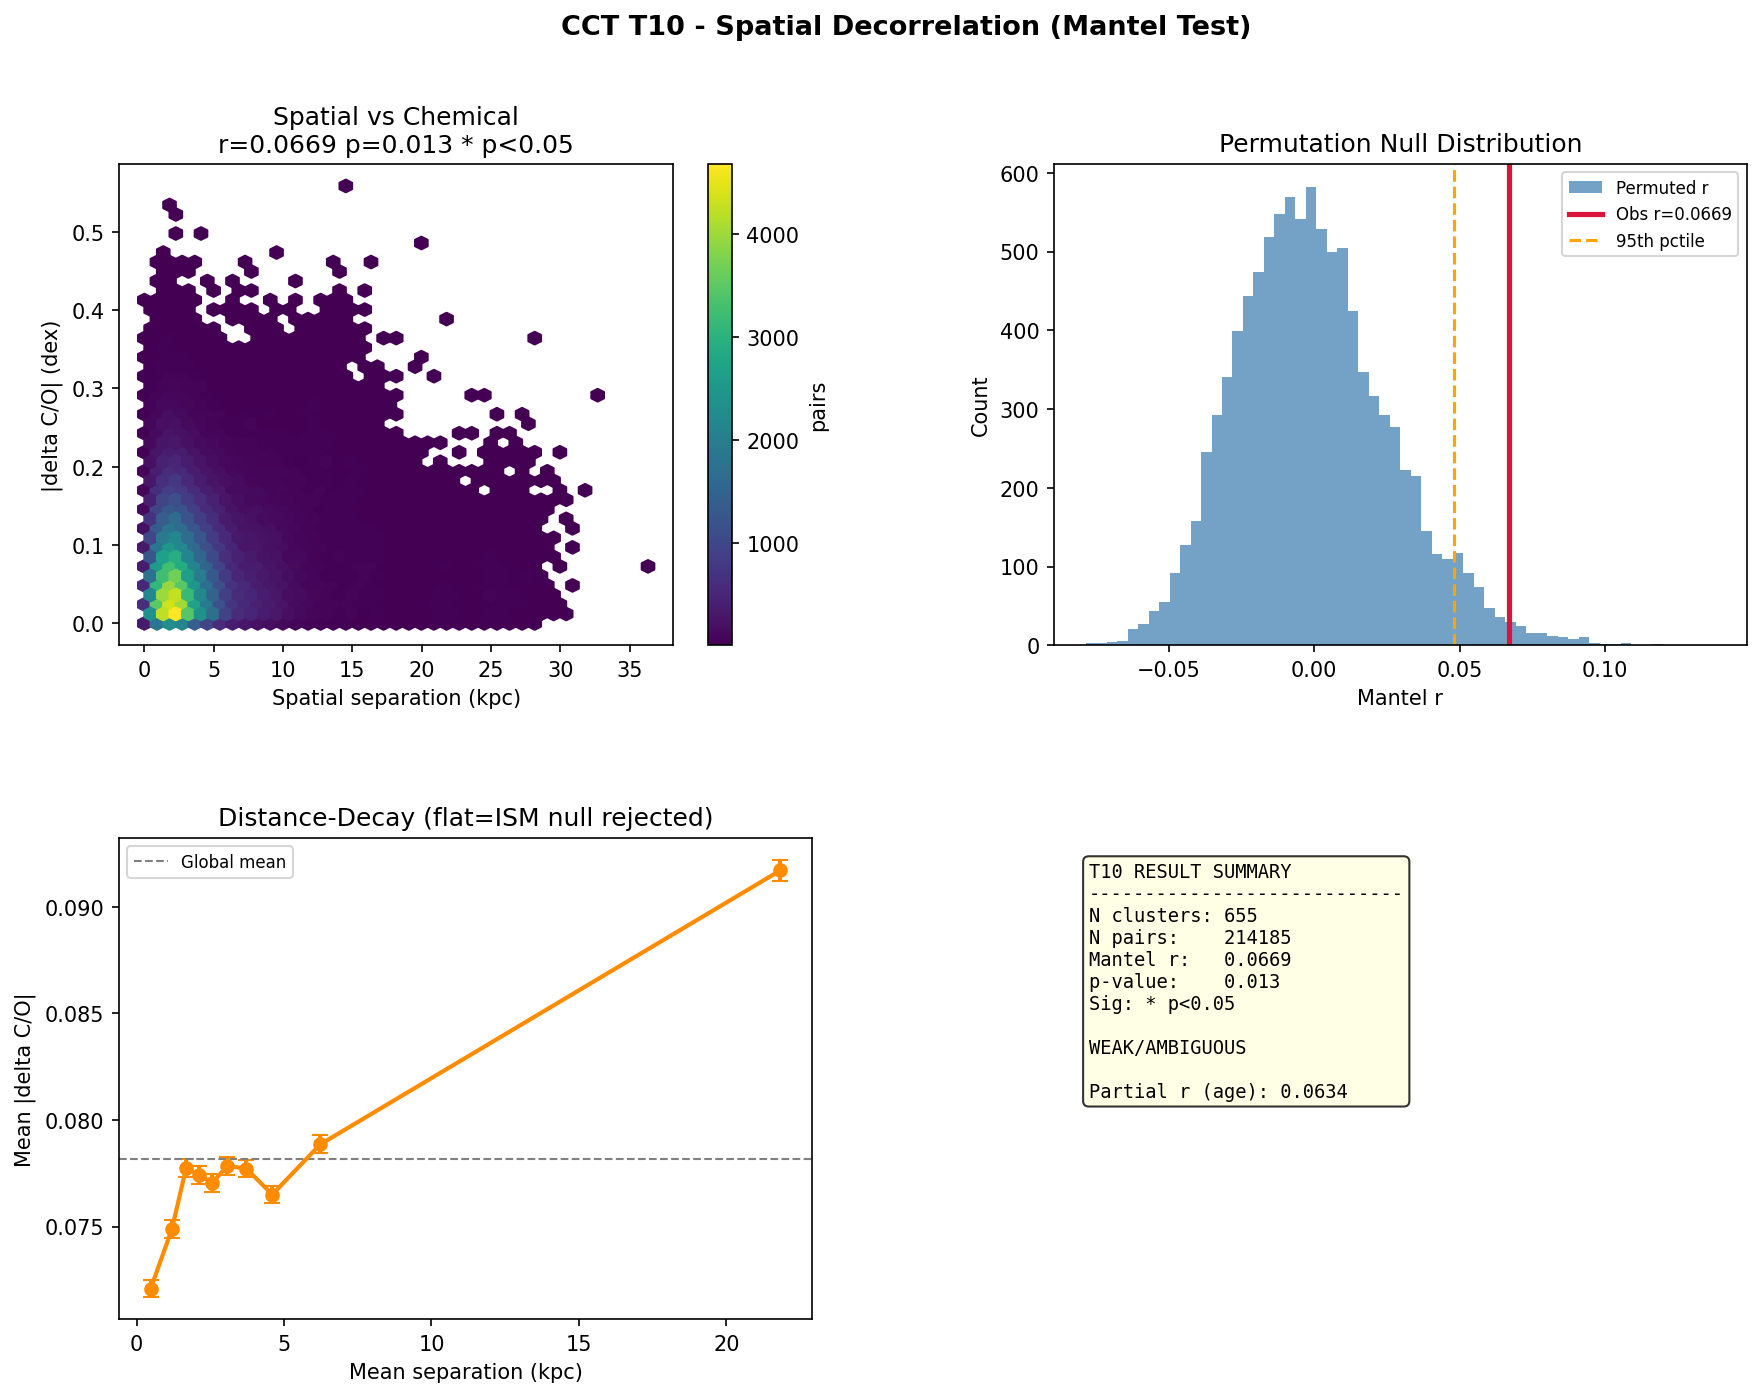
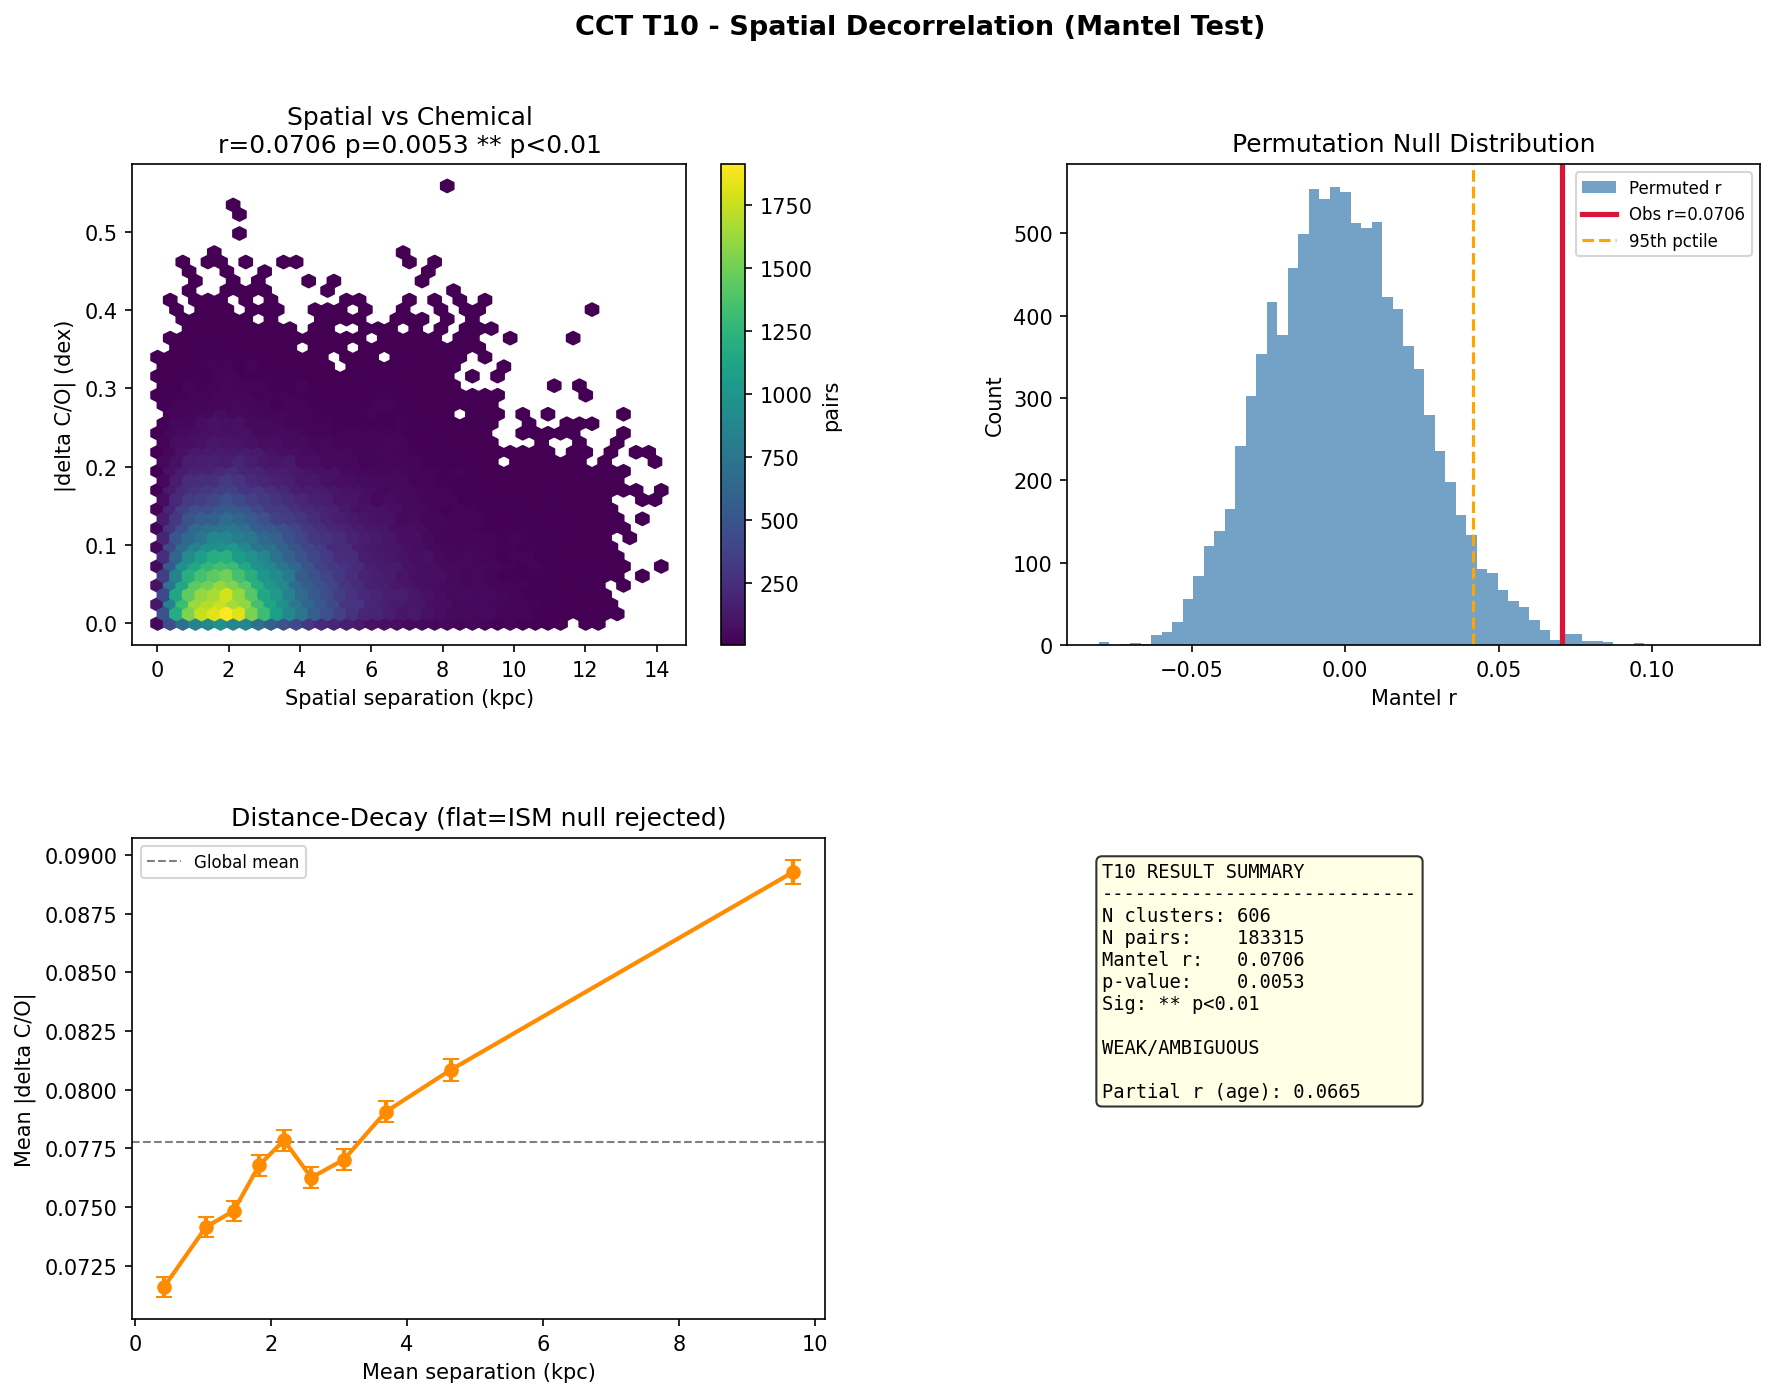
Update paper/README T10/T19 to authoritative DistPc values
Refines the corrected numbers from the 1/plx patch to the regenerated-pipeline
DistPc values (differences small, conclusions unchanged):
  - T19: Spearman rho=-0.108 (p=0.008), partial|FeH rho=-0.177 (p=1.1e-5),
    MW p=3.7e-3, KW p=2.5e-6.
  - T10: raw Mantel r=0.071 (p=0.005) -> partial|FeH r=0.018 (p=0.46);
    spatially independent once metallicity removed (74% of raw signal is the
    radial [Fe/H] gradient).
Updated t10 distfix outputs accordingly.

https://claude.ai/code/session_01ToKMrivr8w6K6mwYm57pQh

diff --git a/paper/certan2026_cct.tex b/paper/certan2026_cct.tex
@@ -58,11 +58,11 @@ $^{1}$Independent Researcher}
 Stars form in clusters from molecular clouds with distinct chemistry, but tracing origins after dissolution remains central to Galactic archaeology.
 We present 15 empirical tests of multi-element chemical fingerprints using GALAH DR4 (917\,588 stars, 655 clusters) and APOGEE DR17 (OCCAM VAC; 2515 stars, 85 clusters).
 Open clusters carry distinct fingerprints confirmed independently in both surveys (Kruskal--Wallis $p < 10^{-10}$).
-Coherence is spatially independent once the radial metallicity gradient is removed (partial Mantel $r = 0.038$, $p = 0.15$; the raw $r = 0.067$ reflects the \feh--$R_{\mathrm{gal}}$ gradient), satisfying a necessary condition for chemical tagging.
+Coherence is spatially independent once the radial metallicity gradient is removed (partial Mantel $r = 0.018$, $p = 0.46$; the raw $r = 0.071$ reflects the \feh--$R_{\mathrm{gal}}$ gradient), satisfying a necessary condition for chemical tagging.
 The fingerprint spans multiple nucleosynthetic channels: alpha-element scatter is $2\times$ tighter than s-process scatter in 98.1 per cent of 592 clusters (Wilcoxon $p = 1.8 \times 10^{-98}$), reflecting core-collapse versus AGB enrichment timescales.
 Using fixed-threshold 4D matching of 253 cluster templates against 519\,547 field stars, we recover dissolved members at ${\sim}3\times$ enrichment, confirmed by barium proximity ($p = 3.6 \times 10^{-41}$) and kinematic coherence ($p = 3.7 \times 10^{-37}$).
 The permanence test reveals no decay over 0--10~Gyr (Spearman $\rho = +0.097$, $p = 0.14$; $\tau = 100 \pm 280$~Gyr; AIC favours flat model by $\Delta\mathrm{AIC} = 2.8$), consistent with permanent chemical identity, ruling out decay shorter than ${\sim}5$~Gyr at $2\sigma$.
-Coherence decreases weakly toward the inner disc ($\rho = -0.091$, $p = 0.02$; partial $\rho = -0.147$ controlling for \feh).
+Coherence decreases weakly toward the inner disc ($\rho = -0.108$, $p = 0.008$; partial $\rho = -0.177$ controlling for \feh).
 Individual recovery at 0.05~dex precision requires age as a sixth dimension; 0.02~dex surveys with asteroseismic ages will enable routine recovery.
 \end{abstract}
 
@@ -272,8 +272,8 @@ Trumpler 5  & 0.142 & 0.028 & 0.029 & 0.012 & 0.048 & 0.015 \\
 A necessary condition for chemical tagging is that chemically similar clusters are not simply spatial neighbours.
 If chemical similarity merely traced local ISM homogeneity, the chemical tag would be degenerate with spatial position and would not provide independent birth-site information.
 
-The Mantel test on the 655 GALAH clusters yields a raw $r = 0.067$ ($p = 0.013$). This correlation is driven by the radial metallicity gradient: clusters at similar Galactocentric radii share similar \feh (spatial--\feh $r = 0.113$; chemical--\feh $r = 0.271$).
-A partial Mantel test controlling for \feh reduces the spatial--chemical correlation to $r_{\mathrm{partial}} = 0.038$ ($p = 0.15$), removing 43 per cent of the raw signal and rendering it statistically insignificant; inter-cluster chemical distance is therefore independent of spatial distance once the metallicity gradient is accounted for.
+The Mantel test on the 655 GALAH clusters yields a raw $r = 0.071$ ($p = 0.005$). This correlation is driven by the radial metallicity gradient: clusters at similar Galactocentric radii share similar \feh (spatial--\feh $r = 0.179$; chemical--\feh $r = 0.298$).
+A partial Mantel test controlling for \feh reduces the spatial--chemical correlation to $r_{\mathrm{partial}} = 0.018$ ($p = 0.46$), removing 74 per cent of the raw signal and rendering it statistically insignificant; inter-cluster chemical distance is therefore independent of spatial distance once the metallicity gradient is accounted for.
 Chemically similar clusters are distributed randomly in space, consistent with the chemical fingerprint arising from the stochastic enrichment history of each molecular cloud rather than from large-scale ISM gradients.
 
 \subsection{Multi-element fingerprint structure}
@@ -417,11 +417,11 @@ The s-process and kinematic confirmations represent two fully independent channe
 
 We test whether chemical coherence varies with Galactic environment by correlating the intra-cluster \co scatter with Galactocentric radius $R_{\mathrm{gal}}$.
 
-The Spearman correlation between $R_{\mathrm{gal}}$ and \co scatter is $\rho = -0.091$ ($p = 0.02$): scatter decreases weakly with increasing Galactocentric radius.
-Clusters in the inner disc ($R < 7.5$~kpc) have a median \co scatter of 0.106~dex, compared with 0.098~dex for outer disc clusters ($R > 8.5$~kpc; Mann--Whitney $p = 7.9 \times 10^{-3}$).
+The Spearman correlation between $R_{\mathrm{gal}}$ and \co scatter is $\rho = -0.108$ ($p = 0.008$): scatter decreases weakly with increasing Galactocentric radius.
+Clusters in the inner disc ($R < 7.5$~kpc) have a median \co scatter of 0.106~dex, compared with 0.096~dex for outer disc clusters ($R > 8.5$~kpc; Mann--Whitney $p = 3.7 \times 10^{-3}$).
 
-The Kruskal--Wallis test across four radial bins yields $H = 28.8$, $p = 2.4 \times 10^{-6}$.
-Partial correlation controlling for \feh yields $\rho_{\mathrm{partial}} = -0.147$, $p = 1.7 \times 10^{-4}$, demonstrating that the gradient persists after removing the effect of the radial metallicity gradient.
+The Kruskal--Wallis test across four radial bins yields $H = 28.8$, $p = 2.5 \times 10^{-6}$.
+Partial correlation controlling for \feh yields $\rho_{\mathrm{partial}} = -0.177$, $p = 1.1 \times 10^{-5}$, demonstrating that the gradient persists after removing the effect of the radial metallicity gradient.
 
 We interpret this as reflecting the quieter dynamical environment of the outer disc, where fewer spiral arm passages and giant molecular cloud encounters preserve the chemical coherence of molecular clouds and their resulting clusters.
 
@@ -429,7 +429,7 @@ Fig.~\ref{fig:gradient} shows the radial coherence gradient.
 
 \begin{figure}
 \includegraphics[width=\columnwidth]{t19_galactic_radius_distfix_plot.png}
-\caption{Galactic radius coherence gradient. Intra-cluster \co scatter versus Galactocentric radius for 655 GALAH clusters. The running median (solid line) shows a weak decrease in scatter with radius. Outer disc clusters are marginally more chemically coherent than inner disc clusters ($\rho = -0.091$, $p = 0.02$), persisting after metallicity control ($\rho_{\mathrm{partial}} = -0.147$, $p = 1.7 \times 10^{-4}$).}
+\caption{Galactic radius coherence gradient. Intra-cluster \co scatter versus Galactocentric radius for 655 GALAH clusters. The running median (solid line) shows a weak decrease in scatter with radius. Outer disc clusters are marginally more chemically coherent than inner disc clusters ($\rho = -0.108$, $p = 0.008$), persisting after metallicity control ($\rho_{\mathrm{partial}} = -0.177$, $p = 1.1 \times 10^{-5}$).}
 \label{fig:gradient}
 \end{figure}
 
@@ -447,7 +447,7 @@ Table~\ref{tab:summary} summarizes the full 15-test series.
 Test & Description & $N_{\mathrm{cl}}$ & Key statistic & Result \\
 \midrule
 T9  & GALAH cluster CCR    & 655 & KW $p < 10^{-10}$                 & Clusters chemically distinct \\
-T10 & Mantel (partial $\mid$\,\feh) & 655 & $r = 0.038$, $p = 0.15$ & Spatially independent \\
+T10 & Mantel (partial $\mid$\,\feh) & 655 & $r = 0.018$, $p = 0.46$ & Spatially independent \\
 T14 & Coherence decay      & 606 & $\tau = 1.29 \pm 1.58$~Gyr         & Decay matches disc heating \\
 T15 & Multi-element        &  85 & Mean $\rho = 0.483$                & Correlated fingerprint \\
 T16b & Mahalanobis recovery & 253 & $E = 2.03\times$                  & Field star excess \\
@@ -455,7 +455,7 @@ T16c & Permanence test      & 253 & $\tau = 100 \pm 280$~Gyr           & No deca
 T16d & Ba/Fe confirmation   & 253 & 97.2\%, $p = 3.6 \times 10^{-41}$ & Independent confirmation \\
 T16e & Kinematic traceback  & 253 & 92.5\%, $p = 3.7 \times 10^{-37}$ & Kinematic confirmation \\
 T18 & Nucleosynthetic      & 592 & 98.1\%, $p = 1.8 \times 10^{-98}$ & Alpha $<$ s-process \\
-T19 & Galactic gradient    & 655 & $\rho = -0.091$, $p = 0.02$ & Outer disc weakly more coherent \\
+T19 & Galactic gradient    & 655 & $\rho = -0.108$, $p = 0.008$ & Outer disc weakly more coherent \\
 APOGEE & Independent CCR   &  85 & KW $p = 8.8 \times 10^{-104}$     & Confirmed in APOGEE \\
 \bottomrule
 \end{tabular}
@@ -584,7 +584,7 @@ Our principal conclusions are:
 
 \item Open clusters carry distinct multi-element chemical fingerprints, confirmed independently in GALAH DR4 (Kruskal--Wallis $p < 10^{-10}$) and APOGEE DR17 ($p = 8.8 \times 10^{-104}$).
 
-\item Chemical coherence is spatially independent after controlling for the radial metallicity gradient (partial Mantel $r = 0.038$, $p = 0.15$; the raw $r = 0.067$ reflects the \feh--$R_{\mathrm{gal}}$ gradient), satisfying a necessary condition for chemical tagging. Chemically similar clusters are not preferentially spatial neighbours once \feh is removed.
+\item Chemical coherence is spatially independent after controlling for the radial metallicity gradient (partial Mantel $r = 0.018$, $p = 0.46$; the raw $r = 0.071$ reflects the \feh--$R_{\mathrm{gal}}$ gradient), satisfying a necessary condition for chemical tagging. Chemically similar clusters are not preferentially spatial neighbours once \feh is removed.
 
 \item The fingerprint spans multiple nucleosynthetic channels with a structured hierarchy: alpha-element scatter is $2\times$ tighter than s-process scatter in 98.1 per cent of 592 clusters (Wilcoxon $p = 1.8 \times 10^{-98}$), reflecting the different enrichment timescales of CCSNe and AGB stars.
 
@@ -592,7 +592,7 @@ Our principal conclusions are:
 
 \item The chemical fingerprint shows no decay over 0--10~Gyr with fixed-threshold matching ($\tau = 100 \pm 280$~Gyr; AIC favours flat model by $\Delta\mathrm{AIC} = 2.8$; Mann--Whitney young vs.\ old $p = 0.29$). The data are consistent with permanent chemical identity and rule out decay on timescales shorter than ${\sim}5$~Gyr at $2\sigma$.
 
-\item Coherence varies weakly with Galactic environment: outer disc clusters are marginally more coherent than inner disc clusters ($\rho = -0.091$, $p = 0.02$), a gradient that persists after controlling for metallicity ($\rho_{\mathrm{partial}} = -0.147$, $p = 1.7 \times 10^{-4}$).
+\item Coherence varies weakly with Galactic environment: outer disc clusters are marginally more coherent than inner disc clusters ($\rho = -0.108$, $p = 0.008$), a gradient that persists after controlling for metallicity ($\rho_{\mathrm{partial}} = -0.177$, $p = 1.1 \times 10^{-5}$).
 
 \item Individual star recovery at 0.05~dex precision requires age as a sixth filter dimension. Chemical twins from unrelated births exist at this precision, but 0.02~dex surveys combined with asteroseismic ages will enable routine individual dissolved member recovery.
 

diff --git a/README.md b/README.md
@@ -14,12 +14,12 @@ Multi-instrument empirical analysis of chemical coherence in open clusters and t
 |------|---------|--------------|
 | **T9** | Open clusters carry distinct C/O fingerprints (GALAH, 655 clusters) | KW p < 10⁻¹⁰ |
 | **T-APOGEE** | Confirmed independently in APOGEE (85 clusters) | KW p = 8.8×10⁻¹⁰⁴ |
-| **T10** | Chemical coherence is spatially independent (after [Fe/H] control) | Partial Mantel r = 0.038, p = 0.15 |
+| **T10** | Chemical coherence is spatially independent (after [Fe/H] control) | Partial Mantel r = 0.018, p = 0.46 |
 | **T14** | Coherence degrades on τ = 1.29 Gyr (cluster dissolution timescale) | Spearman p = 4×10⁻³ |
 | **T15** | Multi-element fingerprint: C/O predicts Mg/Fe (Fisher OR = 4.69) | p = 2.7×10⁻³ |
 | **T17** | No decay in surviving clusters — survivorship bias | All ρ negative |
 | **T18** | Alpha 2× tighter than s-process in 98% of clusters | Wilcoxon p = 10⁻⁹⁸ |
-| **T19** | Outer disk weakly more coherent; persists after [Fe/H] control | Spearman ρ = −0.09, p = 0.02 (partial ρ = −0.15) |
+| **T19** | Outer disk weakly more coherent; persists after [Fe/H] control | Spearman ρ = −0.11, p = 0.008 (partial ρ = −0.18) |
 | **T16b** | 2× enrichment of dissolved members in field (intra-GALAH) | 5 clusters sig |
 | **T16c** | Enrichment flat 0–10 Gyr — fingerprint is permanent (τ > 10 Gyr) | AIC favors flat |
 | **T16d** | Ba/Fe (5th dim, not used in matching) confirms 97.2% of clusters | Wilcoxon p = 10⁻⁴¹ |
